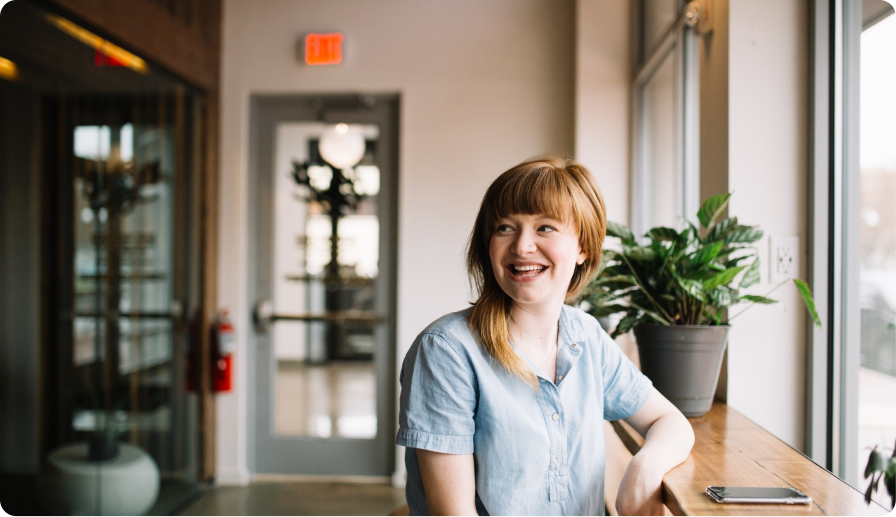
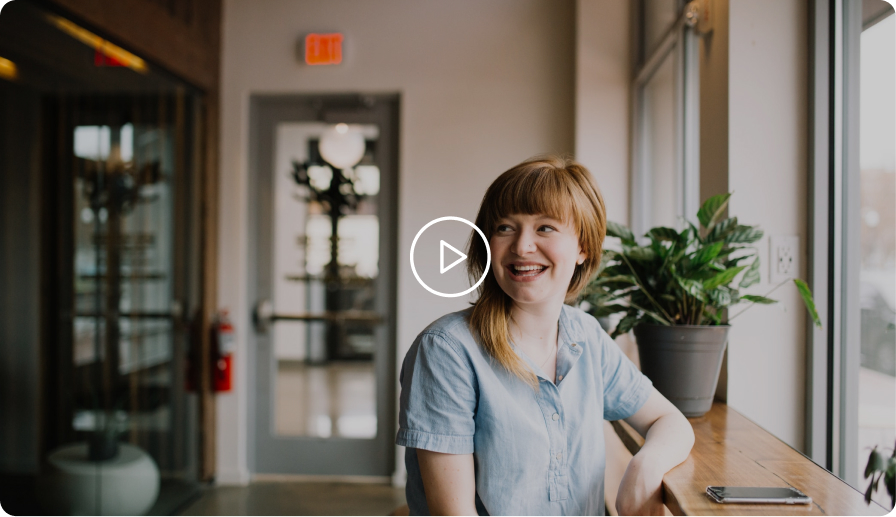
Add video

diff --git a/index.html b/index.html
@@ -89,6 +89,22 @@
                 </div>
             </div>
         </section>
+        <section class="video">
+            <div class="container">
+                <div class="inner__video">
+                    <div class="video__content">
+                        <h2 class="video__title">Let's hear about Kayla's success story</h2>
+                        <p class="video__text">See how well Alivio works in a real customer’s life. </p>
+                        <a class="video__btn" href="#" >Let’s get started</a>
+                    </div>
+                    <div class="media">
+                        <a href="#" class="media__link">
+                            <img src="img/video-bg.jpg" alt="">
+                        </a>
+                    </div>
+                </div>
+            </div>
+        </section>
     </main>
 </body>
 </html>

diff --git a/css/style.css b/css/style.css
@@ -253,3 +253,42 @@ body{
     top: -120px;
     left: 0;
 }
+
+.video{
+    background-color: #245852;
+}
+
+.inner__video{
+    display: flex;
+    justify-content: space-between;
+    color: #FFFFFF;
+    height: 780px;
+}
+
+.video__title{
+    font-weight: 700;
+    font-size: 50px;
+    line-height: 78,5px;
+    margin-top: 310px;
+}
+
+.video__text{
+    font-weight: 600;
+    font-size: 25px;
+    line-height: 39,25px;
+    margin: 33px 0 77px;
+}
+
+.video__btn{
+    background-color: #01996D;
+    padding: 20px 50px;
+    line-height: 25px;
+    color: #FFFFFF;
+    border-radius: 5px;
+}
+
+.media__link img{
+    background-color: #245852;
+    padding-top: 229px;
+    border-radius: 20px;
+}
